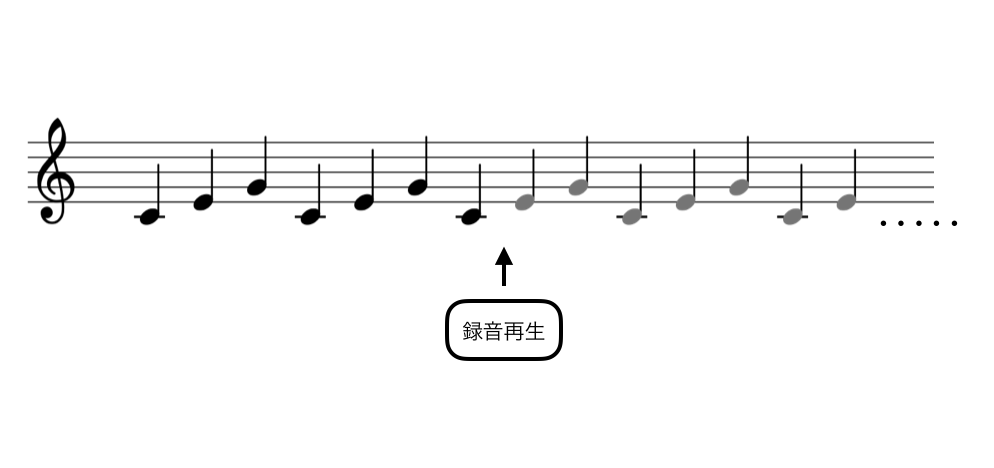
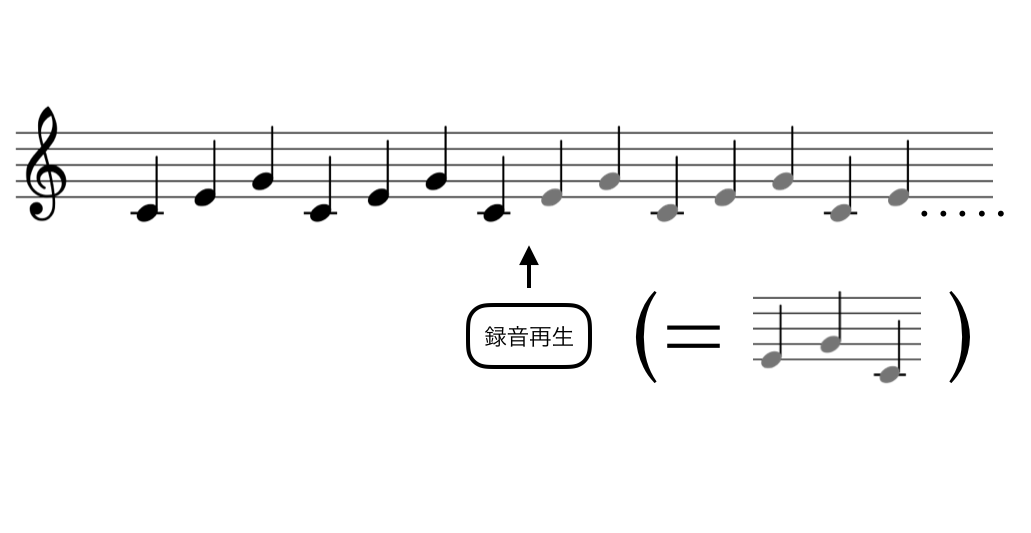
画像

Changed region(s): [[0.0, 0.2094, 0.9668, 0.7778]]

diff --git a/02.tex b/02.tex
@@ -17,8 +17,12 @@
 録音開始の操作は不要で、演奏の途中や、
 演奏が終わってから登録可能な点が既存のツールとは異なる大きな特徴である。
 登録部分の中に演奏の繰り返しが含まれる場合はDynamic Macro\cite{masui}を適用し、
-繰り返し部分だけを登録して連続再生を行う。(\figref{recplay2})
-また、再生中に重ねて演奏を行なうことができ、そこで録音再生ボタンを押すとその演奏も新たに登録される。
+繰り返し部分だけを登録して連続再生を行う。
+\figref{recplay2}の例では、
+ボタンを押した時点で「ミソド」が2回繰り返されているため、
+Dynamic Macroによって「ミソド」が登録される。
+また、再生中に重ねて演奏を行なうことができ、
+そこで録音再生ボタンを押すとその演奏も新たに登録される。(\figref{recplay3})
 この演奏は最初に登録された繰り返しフレーズのタイミングに合わせて記録されるため、
 時間が経過してもずれることなく再生され続ける。
 
@@ -34,6 +38,13 @@
 \centering
 \caption{Dynamic Macroの適用}
 \label{recplay2}
+\end{figure}
+
+\begin{figure}[tb]
+\includegraphics[width=8cm,bb=0 0 1054 481]{images/rp3.png}
+\centering
+\caption{重ねて演奏を登録}
+\label{recplay3}
 \end{figure}
 
 %2.2
